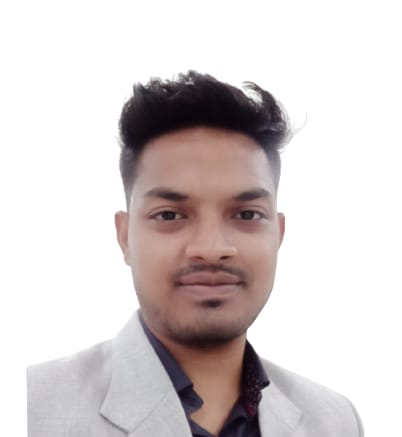
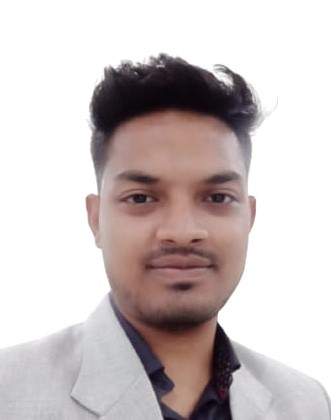
edited intro section

Changed region(s): [[0.0, 0.1238, 1.0, 1.0], [0.2115, 0.8976, 0.3323, 1.0]]

diff --git a/portfolio/src/components/Home.css b/portfolio/src/components/Home.css
@@ -41,15 +41,25 @@
 
 .home-img {
     margin: auto;
-    width: 50%;
-    padding: 10p;
-    object-fit: contain;
-    animation: floatImage 4s ease-in-out infinite;
+    width: 100%;
+    /* padding: 0px 25px; */
+    object-fit: cover;
+    overflow: hidden;
     /* border: 4px solid coral; */
-    border-radius: 15px;
+    /* z-index: -2; */
+    border-radius: 30%;
+
 }
 
+.intro_right {
+    /* padding: 0px 25px; */
 
+    animation: floatImage 4s ease-in-out infinite;
+    border-radius: 30%;
+    /* padding: 20px 0px; */
+    width: 22%;
+    margin: auto;
+}
 
 @keyframes floatImage {
     0% {
@@ -77,12 +87,7 @@
     transform: scale(1.2);
 }
 
-.intro_right {
 
-    padding: 20px 0px;
-    width: 50%;
-    margin: auto;
-}
 
 
 /* intro part end  */
@@ -357,7 +362,7 @@
 
 .calendar {
     margin-top: 50px;
-    border: 4px solid orangered;
+    border: 2px solid orangered;
     border-radius: 10px;
     padding: 20px;
 }
@@ -381,7 +386,7 @@
 
 .stat-container div {
     /* width: 100%; */
-    border: 4px solid orangered;
+    border: 2px solid orangered;
     border-radius: 10px;
 }
 
@@ -423,15 +428,15 @@
 
     .home-img {
         margin: auto;
-        width: 250px;
-        padding: 20px 0px;
+        width: 100%;
+        /* padding: 20px 0px; */
     }
 
     .intro_right {
 
-        padding: 20;
-        width: 70%;
-        margin: 15% auto
+        /* padding: 20; */
+        width: 60%;
+        /* margin: 15% auto */
     }
 
 
@@ -713,14 +718,14 @@
     .home-img {
         margin: auto;
         width: 30%;
-        padding: 20px 0px;
+        /* padding: 20px 0px; */
     }
 
     .intro_right {
 
-        padding: 10px 10px;
+        /* padding: 10px 10px; */
         width: 100%;
-        margin: 40px 0px
+        /* margin: 40px 0px */
     }
 
     .into_myself {

diff --git a/portfolio/src/components/Intro.jsx b/portfolio/src/components/Intro.jsx
@@ -17,7 +17,7 @@ export const Intro = () => {
 
 
     return (
-        <Box className='intro_box'  >
+        <Box className='intro_box mb-10'  >
             <Box className='intro_left' data-aos="fade-up" data-aos-duration="1000">
                 <Box data-aos="fade-right" data-aos-duration="1000"> <Text fontSize={["18px", "20px", "22px", "2xl"]} fontWeight={"700"}> Hello It's Me</Text></Box>
                 <Box data-aos="fade-left" data-aos-duration="1000">   <Text fontSize={["23px", "20px", "25px", "4xl"]} fontWeight={"700"} id="user-detail-name">Sahil Shahu</Text></Box>
@@ -45,8 +45,8 @@ export const Intro = () => {
 
                 </Box>
             </Box>
-            <Box className='intro_right' data-aos="fade-down" data-aos-duration="1000">
-                <img className='home-img' src={Sahil} alt="" style={{border:"2px solid #f3390a"}}/>
+            <Box className='intro_right' style={{border:"1px solid #f8572f"}} data-aos="fade-down" data-aos-duration="1000">
+                <img className='home-img' src={Sahil} alt="" />
             </Box>
 
         </Box>

diff --git a/portfolio/src/components/Skills.jsx b/portfolio/src/components/Skills.jsx
@@ -10,7 +10,7 @@ export const Skills = () => {
         textAlign={"center"} margin={"auto"} w={"max-content"}
         borderRadius={"10px"}
         className="p-2"
-       border={"4px solid"}
+       border={"2px solid"}
         color={"orangered"}
         fontWeight= "700"
         fontSize={["2xl", "2xl", "3xl", "4xl"]}>
@@ -75,7 +75,7 @@ export const Skills = () => {
       </Box>
     
       <Box id='OtherSkills_container' className="skills-card  " >
-        <Text  className='tool' data-aos-duration="1000" textAlign={"center"}  m={"auto"} color={"black"} borderRadius={"10px"} border={"4px solid orangered"} w={"max-content"}  fontWeight={"700"}>Tools</Text>
+        <Text  className='tool' data-aos-duration="1000" textAlign={"center"}  m={"auto"} color={"black"} borderRadius={"10px"} border={"2px solid orangered"} w={"max-content"}  fontWeight={"700"}>Tools</Text>
         <Box className='OtherSkills-inner ' >
 
 

diff --git a/portfolio/src/components/ProjectCard.jsx b/portfolio/src/components/ProjectCard.jsx
@@ -3,7 +3,7 @@ import { Box, Button, Flex, Image, Text, Heading, Link} from '@chakra-ui/react'
 import { Card, CardHeader, CardBody, CardFooter } from '@chakra-ui/react'
 export const ProjectCard = ({name,desc,avatar,link,github,tech }) => {
   return (
-    <Card  data-aos="zoom-in-down" data-aos-duration="1000" className="project-card" maxW={["290px", "sm", "350px", "md"]}  bg={"white"} color={"black"} border={"2px solid #f8572f"} >
+    <Card  data-aos="zoom-in-down" data-aos-duration="1000" className="project-card" maxW={["290px", "sm", "350px", "md"]}  bg={"white"} color={"black"} border={"1px solid #f8572f"} >
       <CardHeader>
 
         <Flex spacing='4'>

diff --git a/portfolio/src/components/Project.jsx b/portfolio/src/components/Project.jsx
@@ -12,11 +12,11 @@ import { ProjectCard } from './ProjectCard'
 
 export const Project = () => {
   return (
-    <Box id="projects " className='-mb-16' >
+    <Box id="projects " className='-mb-16 ' >
 
       <Text data-aos="fade-right" data-aos-duration="1000"
          mb={"30px"}
-         fontWeight={"700"} color={"black"} borderRadius={"10px"} border={"4px solid orangered"}
+         fontWeight={"700"} color={"black"} borderRadius={"10px"} border={"2px solid orangered"}
         className='project-title text-2xl md:text-3xl py-1 md:py-2  px-20 md:px-12'
         textAlign={"center"}  w={'max-content'} margin={"40px auto"} >Projects</Text>
 

diff --git a/portfolio/src/components/Contacts.jsx b/portfolio/src/components/Contacts.jsx
@@ -41,7 +41,7 @@ const styles = {
    
   },
   contactTitle: {
-    border: '3px solid orangered',
+    border: '2px solid orangered',
     borderRadius: '10px',
     fontSize: '20px',
     fontWeight: 'bold',
